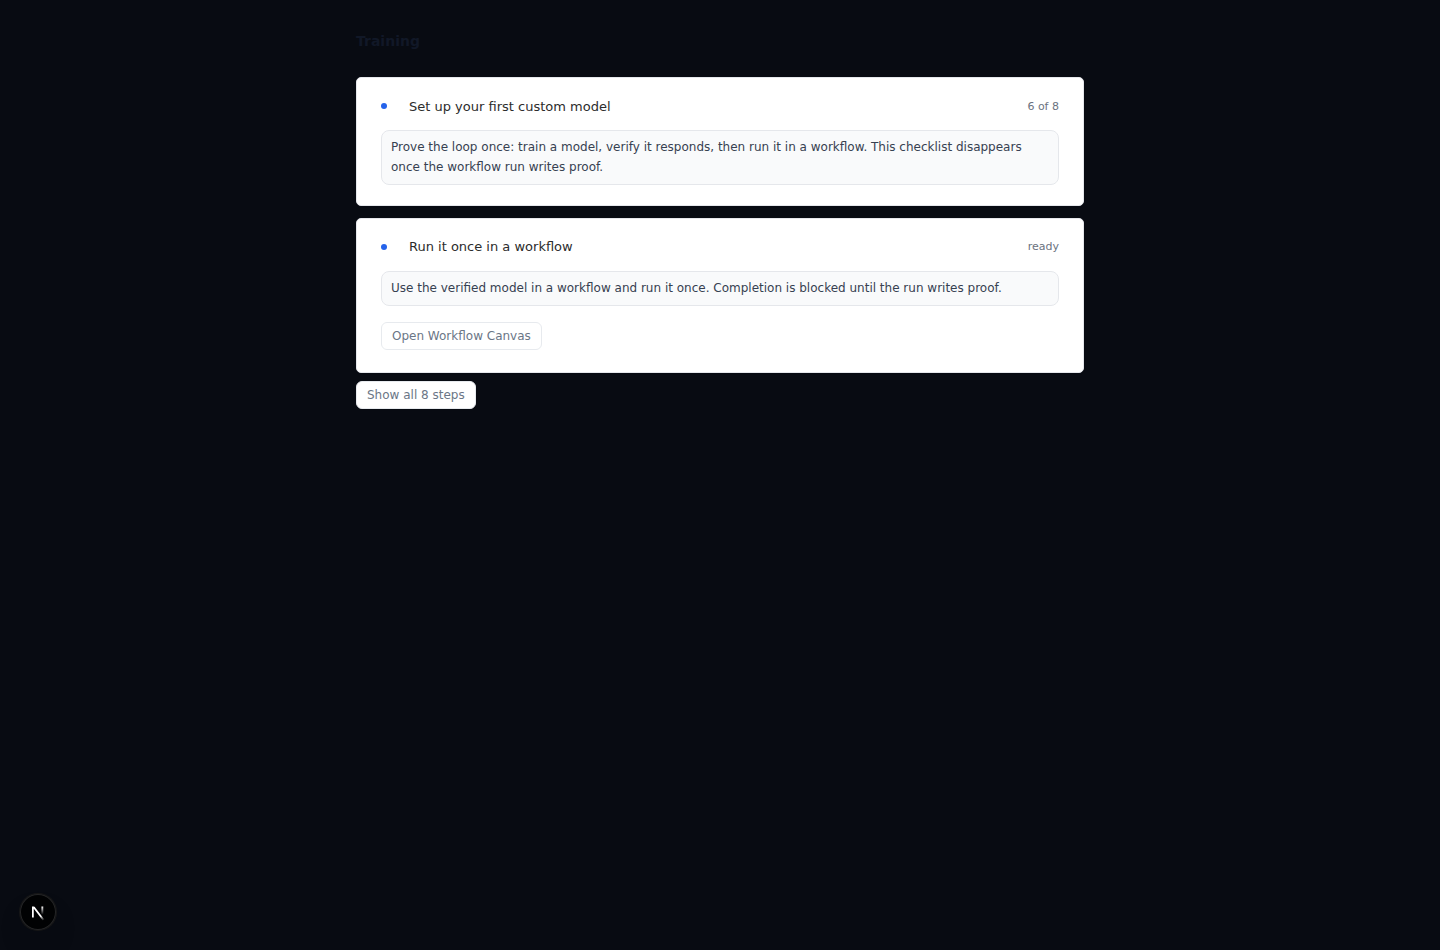
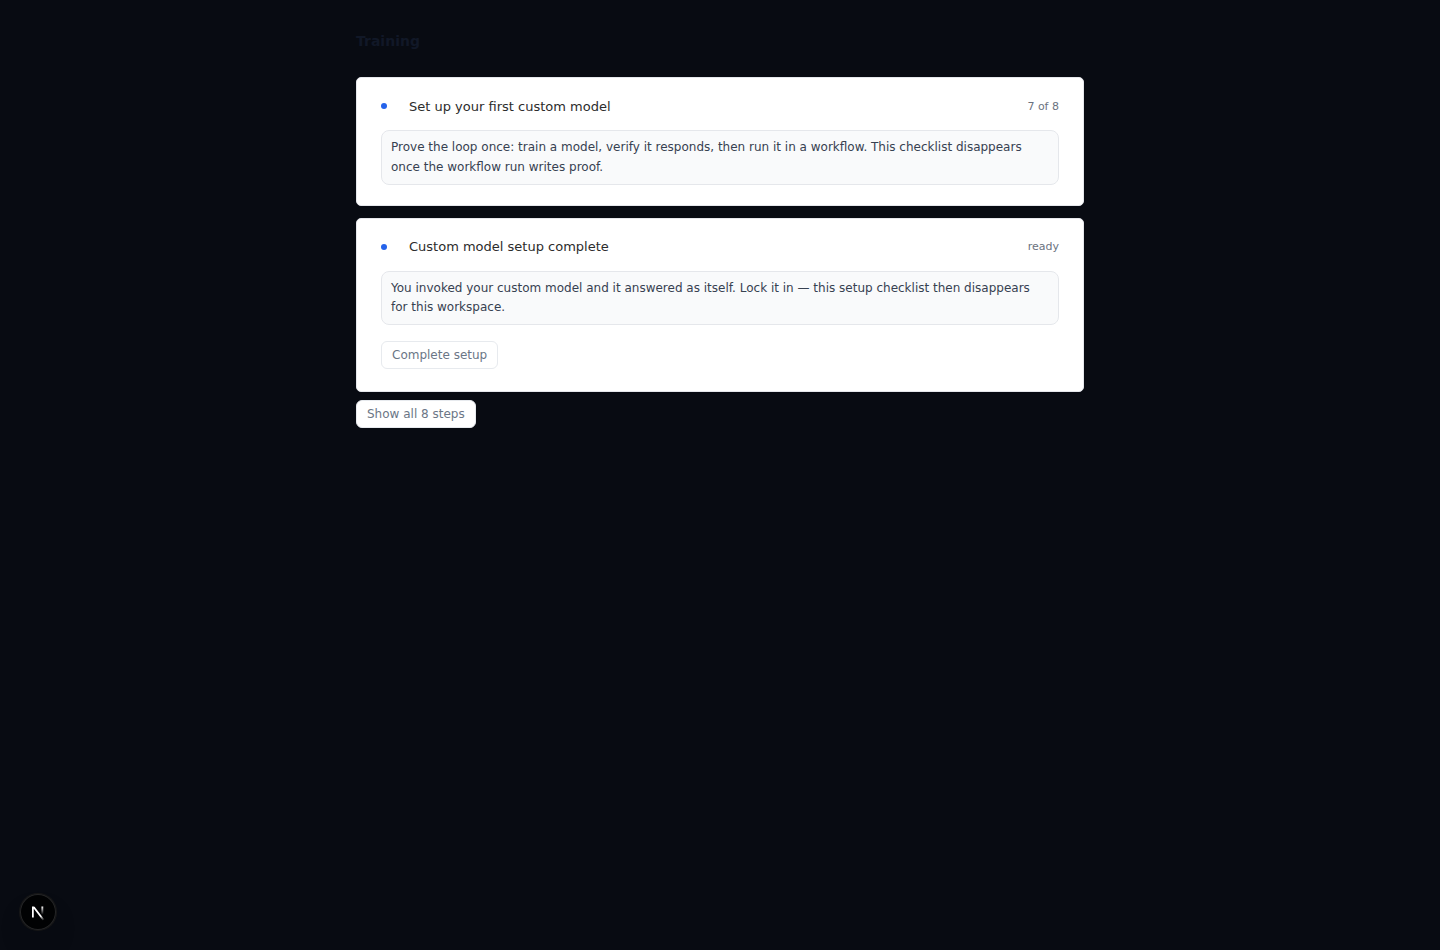
feat(distillation): final closed-loop evidence — workflow canvas + visible harvest growth
- util-08: the one-click workflow rendered on the REAL canvas (3 nodes all
  Completed from actual runs, v2 live) with the api-registry node's config
  sidecar open — Connected, POST /chat/completions, auth by reference,
  delta tags (routing/input/output) — the governed sandbox object record
  binding the atomic api-registry record, on screen
- util-09: the behavior loop made visible — one more real workflow run
  grows the harvest on disk, the trace sidecar + capture receipt refresh,
  and the cockpit's Harvest chip re-renders the grown count (use →
  harvest → next generation)
- 18/18 live checks; PROOF-INDEX rows added

Claude-Session: https://claude.ai/code/session_019A7xLrcZ4hJNsw4VC2HxqE

Changed region(s): [[0.25, 0.2442, 0.75, 0.4579]]

diff --git a/docs/proofs/distillation-flywheel/PROOF-INDEX.md b/docs/proofs/distillation-flywheel/PROOF-INDEX.md
@@ -89,6 +89,8 @@ evidence).
 | util-05 | Demotion negative + recovery | `util-05-demotion-negative.png` | `util-05-demotion-negative-readback.json` | the endpoint REALLY serves the base tag (still a 200) → cockpit demotes to `deployed`, mothership proxy falls back to `local-base` (the model keeps answering) → a real re-invocation restores `complete` | live-http |
 | util-06 | Data-model tables | `util-06-table-apiRegistry.png`, `util-06-table-modelTrainingRun.png`, `util-06-table-trainingTraces.png` | `util-06-data-model-tables-readback.json` | the governed tables themselves — api-registry (endpoint + stamped completion), model-training-run (distillation receipt), training-traces — the single source of truth every claim above derives from; no secrets in any row | derived |
 | util-07 | Teacher provenance | — | `util-07-teacher-provenance-readback.json` | the chain: teacher pack (agent-generated, provenance declared) → served bytes → harvested traces (reasoning present) → sidecar root hash | live-http |
+| util-08 | Workflow canvas | `util-08-workflow-canvas.png` | `util-08-workflow-canvas-readback.json` | the one-click product on the REAL canvas: `custom-model-chat (3/3) · v2 · live`, all nodes **Completed** from actual runs, the api-registry node selected with its config sidecar open — **Connected**, POST `/chat/completions`, auth by reference (no secret), **Delta tags** (`routing, input, output`) — the governed sandbox object record rendered as the workflow, binding the atomic api-registry record | derived |
+| util-09 | The loop, visibly | `util-09-loop-growth-cockpit.png` | `util-09-loop-growth-cockpit-readback.json` | one more REAL workflow run grows the harvest on disk (43 → 44 traces, reasoning present), the sidecar + trace-capture receipt refresh, and the cockpit's Harvest chip re-renders the grown count — use → harvest → next generation, the behavior loop on screen | live-http |
 
 ## Governance negatives observed during capture (not staged)
 
